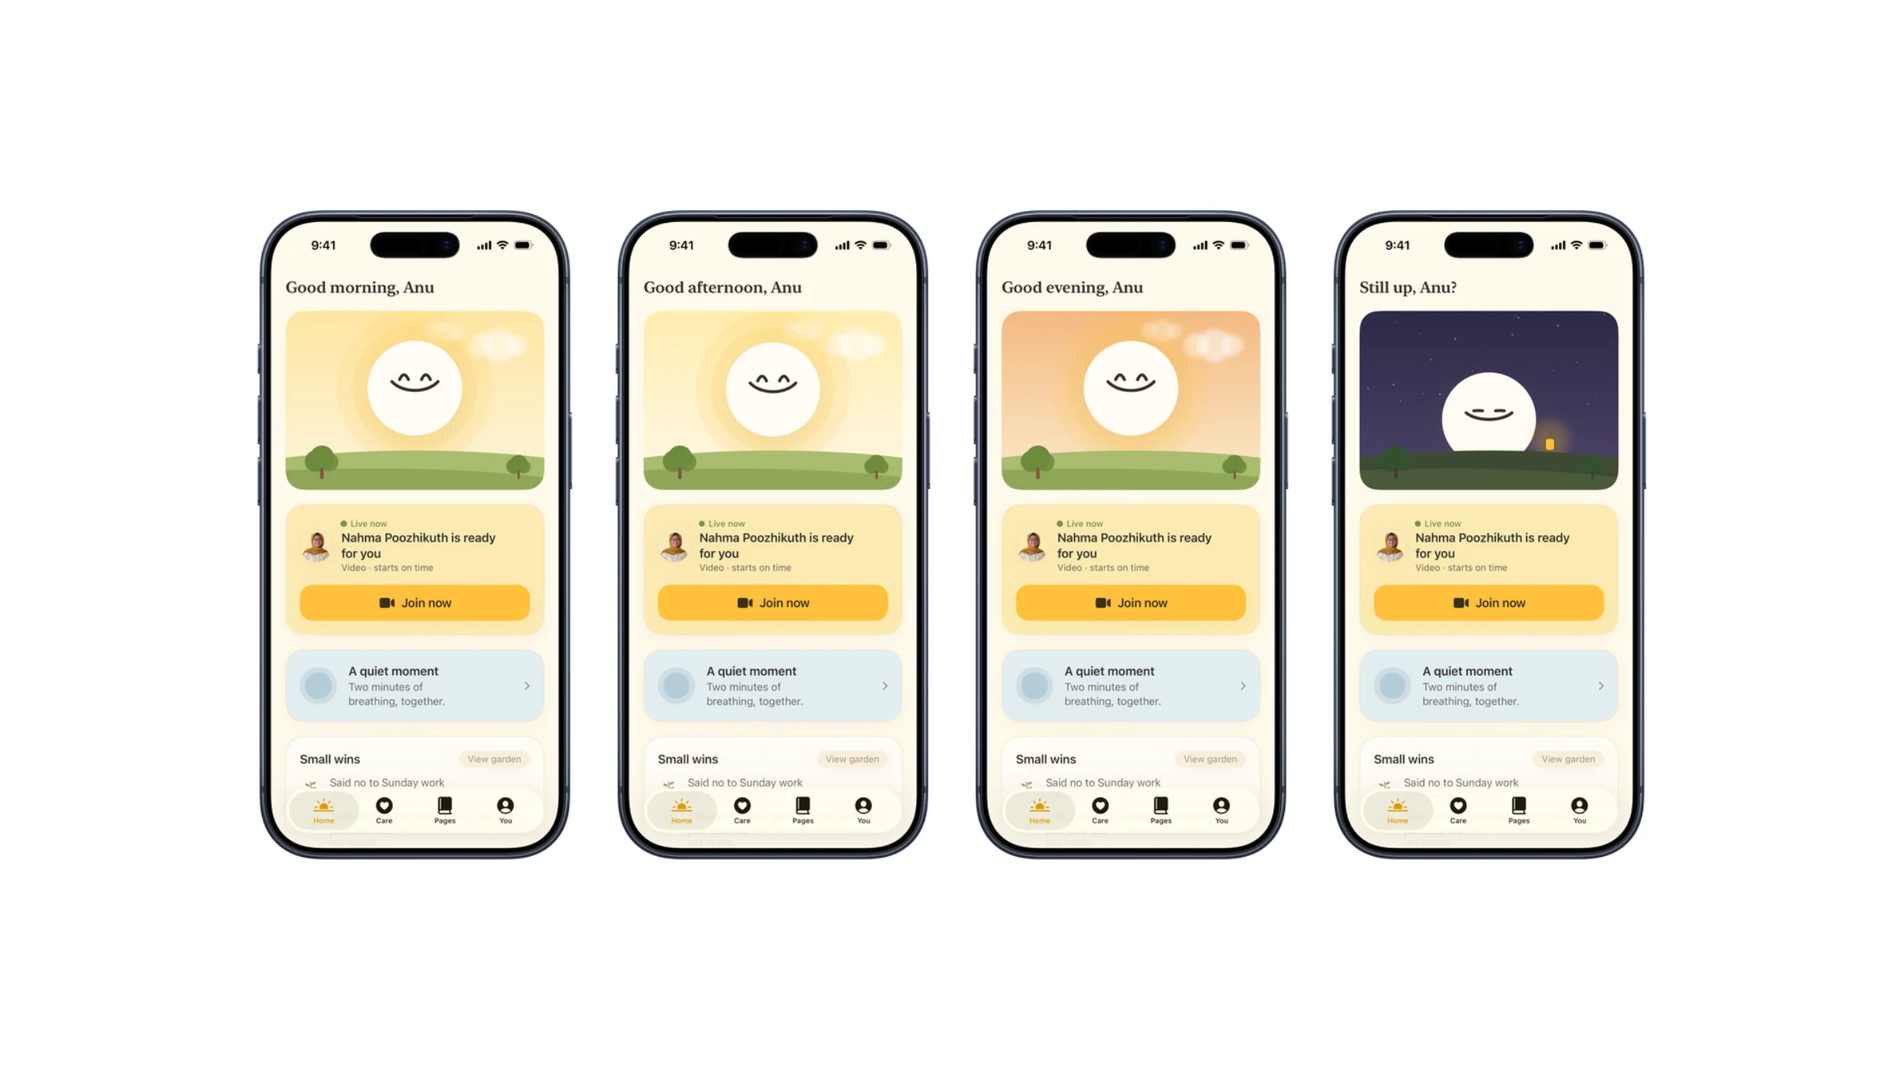
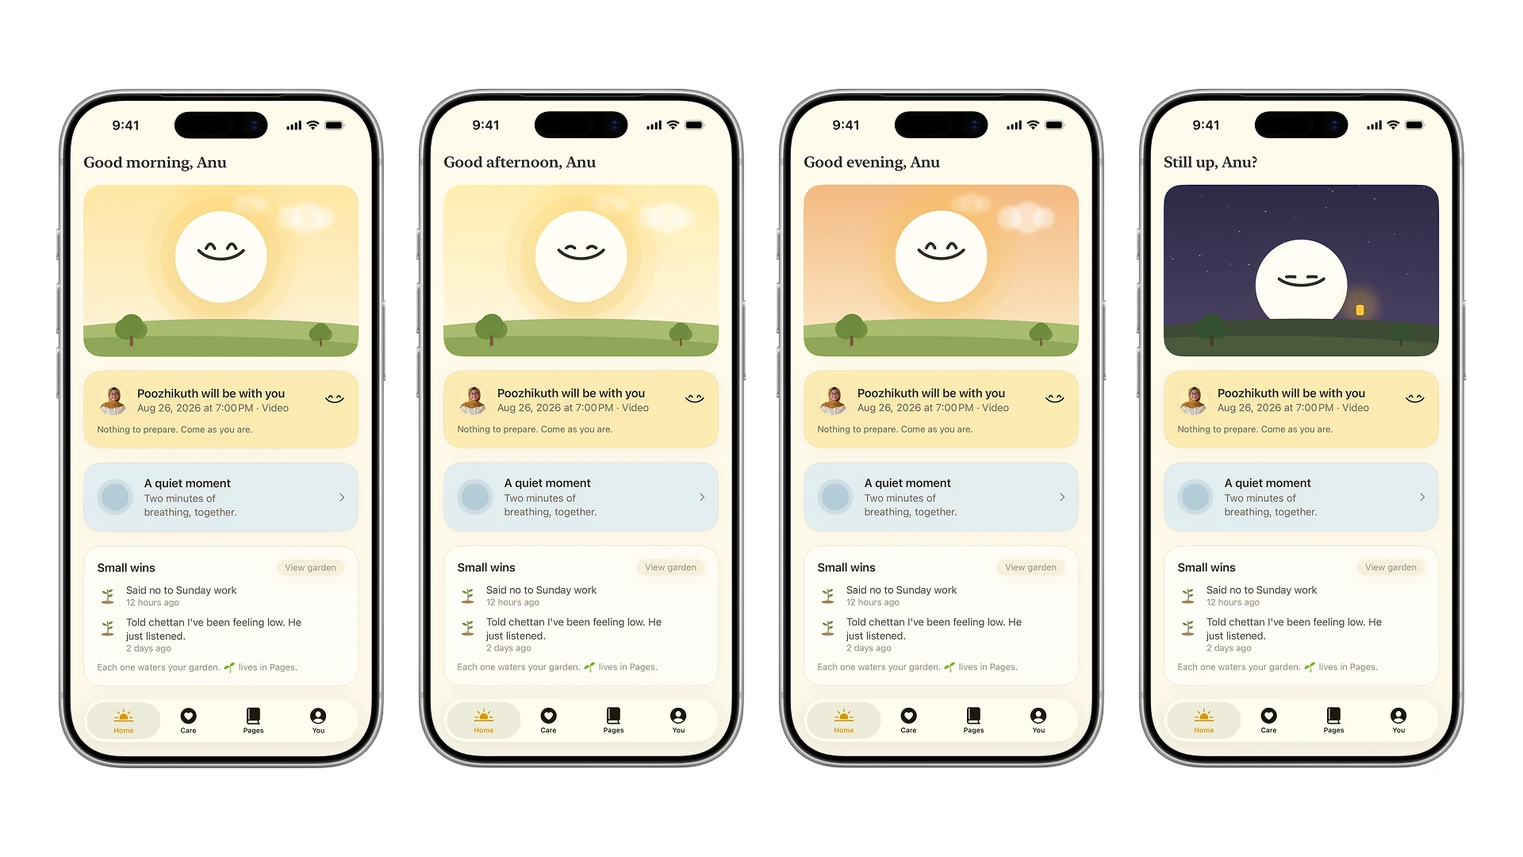
case-studies: Oppam becomes the long one
Moves out of designs, where it was five figures and a paragraph, and
into case studies as the full piece: 2,150 words, 36 figures, fifteen
sections. The design entry is gone and /designs/oppam 301s to the new
home, in _redirects and in render() for in-app history, since that URL
has been shared.

The research is cited rather than asserted. NMHS 2015-16 for the 84.5
percent treatment gap, the same survey for Kerala's 1.2 psychiatrists
per 100,000 against India's 0.75, the live oppam.me site for what the
service offers today, and the published reach of Wysa, Amaha and
YourDOST for the category. The honest limit is stated in the piece
rather than buried: there are no user interviews behind it, and the
people it was designed for are archetypes from that reading.

The strongest new section is the one about the website. Open oppam.me as
a nervous person and you cannot find a price, a therapist, or a first
step. You can find a phone number, which for this particular person is
the tallest step there is. That is the gap the app is built into, and it
is checkable rather than argued.

Then the app itself with reasons attached: no account because a sign-up
wall feels like registering an illness, weather instead of symptoms
because "is my problem big enough" is what keeps people out, three
introductions because a directory asks the hardest question first, a
price on every card, a voice before the money, privacy you can watch
[…]

diff --git a/case-studies/oppam.js b/case-studies/oppam.js
@@ -1,0 +1,153 @@
+// ==========================================================================
+//  Oppam. A case study.
+//
+//  Figures: oppam-assets/*.webp, supplied slides through prep_figures.py.
+//  Individual captures and the capture scripts live in oppam-assets/screens.
+//
+//  Research is cited, not invented: NMHS 2015-16 for the treatment gap and
+//  the Kerala psychiatrist count, the live oppam.me site for what the service
+//  offers today, and the published reach numbers for the category.
+// ==========================================================================
+
+BODY('oppam', {
+  blocks: [
+    { t: 'p', x: 'This is a long one, so here is its shape. Why people in Kerala do not come. What the apps in this category already do, and where they stop. What Oppam has today, which is a website. Then the app I designed for it, screen by screen, and the reasons behind each part of it.' },
+    { t: 'image', src: '/oppam-assets/brand.webp', alt: 'The Oppam wordmark with its smiling mark, beside the app home screen', caption: 'ഒപ്പം. It means beside you.' },
+
+    { t: 'h2', x: 'Kerala, and the walk to the door' },
+    { t: 'p', x: 'Kerala has more psychiatrists per person than any other state in India. About 1.2 for every 100,000 people, where the country as a whole manages 0.75.' },
+    { t: 'p', x: 'The National Mental Health Survey still puts the treatment gap at 84.5 percent. The best served state in the country, and most people who need help are not getting any.' },
+    {
+      t: 'stats',
+      items: [
+        { v: '84.5%', l: 'of people with a mental health condition in India get no treatment (NMHS 2015-16)' },
+        { v: '1.2', l: 'psychiatrists per 100,000 in Kerala, the highest of any state. India averages 0.75' },
+        { v: '0', l: 'accounts this app asks you to create' },
+      ],
+    },
+    { t: 'p', x: 'So the wall is not a shortage of therapists. The wall is the walk to the door.' },
+    { t: 'p', x: 'What stops people here is quieter than a waiting list. Therapy is whispered about. A clinic is a building other people can watch you walk into. Phones get shared with a sibling or a parent. And nobody knows what actually happens in a first session, so the imagination fills it in with something worse than the truth.' },
+    { t: 'p', x: 'I should say plainly what this is built on. <strong>There are no user interviews behind it.</strong> It is the National Mental Health Survey and the Kerala paper drawn from it, published work on shared phones in Indian homes, a read of the live oppam.me service, and a walk through every competing app from first open to booking, marking each place I hesitated and why. The people I kept in mind while deciding are archetypes from that reading, not people I sat with. If there were a budget I would replace them in the first week.' },
+
+    { t: 'h2', x: 'What the apps in this category already do' },
+    { t: 'p', x: 'The category is neither empty nor bad. Wysa has reached eleven million lives across a hundred and five countries. Amaha has served four and a half million users. YourDOST puts counsellors on text, audio and video. These are real products with real reach.' },
+    { t: 'p', x: 'They are also open about their hardest problem, which is that people leave. Retention is the known weak point of the whole category. Language is the other one. An app that only speaks English is asking somebody to describe their worst week in their second language.' },
+    { t: 'p', x: 'But look at where they all begin. They begin at the booking, or at a chatbot. The ten minutes <em>before</em> a person decides to ask for help is nobody&rsquo;s screen.' },
+    { t: 'p', x: 'That is the gap this app is built into.' },
+
+    { t: 'h2', x: 'What Oppam has today' },
+    { t: 'p', x: 'Oppam is Kerala&rsquo;s first 24/7 online counselling platform. Its site counts more than 50,000 therapy hours. It runs individual, couple and follow-up sessions, plus corporate and campus programmes, out of Kozhikode. It names the things people arrive with: anxiety, stress, depression, trauma, grief, anger, work burnout, parenting, queer-affirmative concerns.' },
+    { t: 'p', x: 'The service is real and it works. The website is where it gets hard.' },
+    { t: 'p', x: 'Open that homepage as a nervous person and see what you cannot find. Not the price. Not who the therapists are. Not a first step to booking. What you can find is a phone number.' },
+    { t: 'p', x: 'For this particular person, a phone call is the tallest step in the whole journey. The website asks them to take it first.' },
+
+    { t: 'h2', x: 'What an app can do that a page cannot' },
+    { t: 'p', x: 'An app can be opened without being seen. It can lock a journal behind Face ID, cover itself with a sunrise in the app switcher, and send a notification that gives nothing away. A web page in a browser somebody else borrows can do none of that.' },
+    { t: 'p', x: 'It can also carry a price on every card, introduce a person in their own recorded voice, and let you look at everything without being asked who you are.' },
+    { t: 'p', x: 'So the app is not the website with a tab bar bolted on. It is the part of the service a website cannot hold.' },
+
+    { t: 'h2', x: 'The sentence everything was tested against' },
+    {
+      t: 'quote',
+      x: 'Oppam is not a therapy app. It is the feeling of someone quietly coming to sit beside you, and its real job is the moment before somebody asks for help, not the transaction afterwards.',
+      by: 'The one line every decision had to survive',
+    },
+    { t: 'p', x: 'Four rules came out of that, and between them they settled most of the arguments.' },
+    {
+      t: 'cards',
+      items: [
+        { icon: 'sun', title: 'Trust before identity', desc: 'Nothing is asked before trust is earned. No account, no email. A first name, and even that is optional.' },
+        { icon: 'layers', title: 'One loud action', desc: 'Exactly one thing on a screen may raise its voice. Everything else is an invitation you are free to ignore.' },
+        { icon: 'droplet', title: 'Visible, not promised', desc: 'If you cannot watch a protection working, it is not a feature. Every toggle shows what it actually does.' },
+        { icon: 'moon', title: 'Presence, not performance', desc: 'The companion never gamifies, never guilt-trips, never speaks first, and never pretends to be a therapist.' },
+      ],
+    },
+
+    { t: 'h2', x: 'The first minutes' },
+    { t: 'p', x: 'A sign-up wall feels like registering an illness, so there is not one. The app asks what to call you, and accepts any answer, including none.' },
+    { t: 'image', src: '/oppam-assets/first-minutes.webp', alt: 'The opening screens: the welcome, the what should I call you question, and the language chooser', caption: 'A name, and a language.' },
+    { t: 'p', x: 'The language question is not a settings toggle here, and it is not only about labels. Feelings do not translate well. Malayalam, English or Manglish switches the lines that carry weight, not the chrome.' },
+    { t: 'p', x: 'Then it asks, gently, whether anything is sitting with you lately. Every answer is optional and one of them is <em>nothing right now</em>. It ends on a promise rather than a permission request.' },
+    { t: 'image', src: '/oppam-assets/promise.webp', alt: 'Two onboarding screens: is anything sitting with you lately, and before we begin, one promise', caption: 'Nothing is compulsory, including answering.' },
+
+    { t: 'h2', x: 'Home is a veranda, not a dashboard' },
+    { t: 'p', x: 'A dashboard asks you to manage something. A veranda is a place you can sit without a reason, which is closer to what this app is for.' },
+    { t: 'image', src: '/oppam-assets/home.webp', alt: 'The Oppam home screen with a sky, the companion, a greeting and the next session card', caption: 'Home, in the morning.' },
+    { t: 'p', x: 'The sky and the companion follow the hour, so the app feels like it is in the same day you are. After nine at night the companion sleeps and holds a lantern.' },
+    { t: 'image', src: '/oppam-assets/home-times.webp', alt: 'The same home screen at morning, afternoon, evening and night, the sky and companion changing with each', caption: 'One screen, four times of day.' },
+    { t: 'p', x: 'The check-in asks for weather, not symptoms. <em>Is my problem big enough</em> is one of the questions that keeps people out, and a symptom checklist answers it badly. Weather has no threshold to clear.' },
+    { t: 'p', x: 'Small wins collect underneath, and they only ever grow. Nothing here can go down, because a number that falls is a reason to stop opening an app.' },
+    { t: 'image', src: '/oppam-assets/home-detail.webp', alt: 'The quiet moment card and the small wins list on the home screen', caption: 'A quiet moment, and things that went right.' },
+    { t: 'p', x: 'The quiet moment is a two minute breath on a 4-2-6 count. It is the one thing in the app you can finish.' },
+    { t: 'image', src: '/oppam-assets/breathe.webp', alt: 'The breathing screen with the companion and the words breathe in with me', caption: 'Two minutes, and no account needed.' },
+    { t: 'p', x: 'Most of this part only exists in motion, so this one is the app running rather than a screenshot of it.' },
+    { t: 'image', src: '/oppam-assets/motion-breathe.gif', alt: 'One full breathing cycle animating, captured frame by frame from the simulator', caption: 'One cycle, in and out.' },
+
+    { t: 'h2', x: 'Finding a person' },
+    { t: 'p', x: 'A directory asks the hardest question first: evaluate a screen full of strangers and choose correctly, while anxious. So Care starts from a feeling instead.' },
+    { t: 'image', src: '/oppam-assets/care-feelings.webp', alt: 'The Care screen listing feelings such as anxiety and worry, relationship issues, grief and loss', caption: 'Start with what is going on, not with a list of people.' },
+    { t: 'p', x: 'Then it brings three people forward and says why each of them. Three is a number you can actually decide between. The full list is one tap deeper for anyone who wants it.' },
+    { t: 'image', src: '/oppam-assets/care-matches.webp', alt: 'Three matched therapists with the reason each was suggested, and a therapist profile', caption: 'Introductions, not listings.' },
+    { t: 'p', x: 'Every therapist answers the same question in their own recorded voice: what your first session is honestly like. The unknown first session is the tallest wall in this whole thing, and a voice gets over it in a way a paragraph does not.' },
+    { t: 'image', src: '/oppam-assets/therapist.webp', alt: 'A therapist profile with a voice introduction player, credentials, and tags such as gentle listener and comfort with silence', caption: 'Her voice, before your money.' },
+    { t: 'p', x: 'The price is on the card. Per session, always, no packages. Cost opacity is its own barrier, and the answer to it is a number you can see before you are invested.' },
+    { t: 'image', src: '/oppam-assets/booking-rhythm.webp', alt: 'The booking screens: choosing a rhythm with prices per session, and picking a time', caption: 'A rhythm, a time, a price you already know.' },
+    { t: 'image', src: '/oppam-assets/booking-review.webp', alt: 'The booking review screen and the confirmation', caption: 'Four steps, no forms.' },
+    { t: 'p', x: 'The confirmation ends on the thing people are actually anxious about, which is not the calendar entry.' },
+    { t: 'image', src: '/oppam-assets/booked.webp', alt: 'The you are booked screen reading nothing to prepare, come exactly as you are', caption: '&ldquo;Nothing to prepare. Come exactly as you are.&rdquo;' },
+    { t: 'p', x: 'The room itself says what it does with the session, which is nothing. Video, voice or chat, and camera off is a normal choice rather than a failure.' },
+    { t: 'image', src: '/oppam-assets/live.webp', alt: 'The live session screen with the therapist and an end call button', caption: 'The session.' },
+
+    { t: 'h2', x: 'Pages, which nobody else sees' },
+    { t: 'p', x: 'Writing is the cheapest first step there is, and it does not need a therapist or a payment. Pages is a journal with the prompt turned off by default, because a prompt is a small exam.' },
+    { t: 'image', src: '/oppam-assets/pages.webp', alt: 'The Pages screen with the garden of small wins and the note that these pages are only yours', caption: 'Pages.' },
+    { t: 'p', x: 'Letters can be sealed until a date you pick, which turns writing into something you do for a version of yourself that does not exist yet.' },
+    { t: 'image', src: '/oppam-assets/letters.webp', alt: 'Writing a page, and a letter being sealed for a future date', caption: 'A page, and a letter to later.' },
+
+    { t: 'h2', x: 'Privacy you can watch working' },
+    { t: 'p', x: 'A privacy policy is a promise. A shared phone needs proof. So every protection in here is something you can see doing its job.' },
+    { t: 'image', src: '/oppam-assets/you.webp', alt: 'The You tab with the language of the heart switcher and the privacy room', caption: 'The You tab is deliberately small.' },
+    { t: 'p', x: 'Face ID on the journal door. A sunrise that covers the app in the switcher. Notifications that show you the exact text somebody else would see on your lock screen. One tap turns Pages into a grocery list.' },
+    { t: 'image', src: '/oppam-assets/privacy.webp', alt: 'The privacy room with a lock on the journal, neutral notifications with a live preview, and quiet hours', caption: 'Each one shows what it actually does.' },
+
+    { t: 'h2', x: 'The companion' },
+    { t: 'p', x: 'The mark in the logo is a smile, and the companion is that smile alive. It is drawn as animated geometry rather than an image, so it can breathe, blink, and sit one register softer than whatever you are feeling.' },
+    { t: 'p', x: 'It never mirrors distress and never celebrates louder than you do. It never speaks first. When it does speak, the words are set in a serif, like a letter rather than a chat bubble.' },
+    { t: 'image', src: '/oppam-assets/moods.webp', alt: 'The five companion registers: peaceful, listening, happy, comforting and sleeping', caption: 'Five registers, one face.' },
+
+    { t: 'h2', x: 'The other half, which is the therapist' },
+    { t: 'p', x: 'A marketplace that designs only the buyer&rsquo;s side quietly decides that the supply side does not matter. Therapists are the supply here, and burnt out therapists are how a service like this fails. So the console is built too.' },
+    { t: 'image', src: '/oppam-assets/console-today.webp', alt: 'The therapist console today screen with the live session and the client who has arrived', caption: 'Today, for the therapist.' },
+    { t: 'p', x: 'People rather than cases. A file shows a first name and only what that person chose to share, including the words they typed on day one.' },
+    { t: 'image', src: '/oppam-assets/console-week.webp', alt: 'The console today, people and calendar screens', caption: 'The week, and the people in it.' },
+    { t: 'p', x: 'Hours are opened by the therapist, not assigned to them. Earnings show the split written out rather than a net figure that needs trusting.' },
+    { t: 'image', src: '/oppam-assets/console-practice.webp', alt: 'The practice screen with earnings and the hours the therapist has opened', caption: 'The practice.' },
+    { t: 'p', x: 'Notes are written the way you would say it to a colleague you trust, and an unfinished note is not a backlog with a badge on it.' },
+    { t: 'image', src: '/oppam-assets/console-notes.webp', alt: 'Session notes and the unfinished notes list', caption: 'Notes.' },
+    { t: 'image', src: '/oppam-assets/console-earnings.webp', alt: 'The earnings screen with the split written out and the payout history', caption: 'Earnings, with the split shown.' },
+    { t: 'p', x: 'And the part nobody puts in a marketplace: an on-call clinical lead, peer supervision, and an escalation protocol that says what to do when somebody is not safe.' },
+    { t: 'image', src: '/oppam-assets/console-support.webp', alt: 'The support screen with an on-call clinical lead, peer supervision and the escalation protocol', caption: 'Nobody holds this alone.' },
+
+    { t: 'h2', x: 'The bad days are designed too' },
+    { t: 'p', x: 'Anything that only works when the network does is a prototype. These are the screens the app spends its worst minutes on.' },
+    { t: 'image', src: '/oppam-assets/offline.webp', alt: 'The offline ribbon sliding in under the status bar with an explanation screen', caption: 'Offline says so, quietly.' },
+    { t: 'image', src: '/oppam-assets/errors.webp', alt: 'Three error states: cannot load right now, the payment did not go through, the connection dropped', caption: 'Reassurance first, one calm retry second.' },
+    { t: 'p', x: 'An empty screen is never a dead end. The companion waits in the blank space with a line and a way forward.' },
+    { t: 'image', src: '/oppam-assets/empty-booked.webp', alt: 'The nothing booked yet empty state with a find someone button', caption: 'Empty, with a way out of it.' },
+    { t: 'image', src: '/oppam-assets/offline-states.webp', alt: 'More states: offline, no sessions yet, and cannot reach the call', caption: 'And the rest of them.' },
+    { t: 'image', src: '/oppam-assets/sideways.webp', alt: 'The something went sideways error screen', caption: 'Even this one is written like a person.' },
+
+    { t: 'h2', x: 'Lamplight' },
+    { t: 'p', x: 'Dark mode here is not a grey inversion. It is lamplight: warm browns and amber, because this app gets opened late at night by people who are not having a good one, and cold grey at 2 AM is a worse room to sit in.' },
+    { t: 'image', src: '/oppam-assets/dark-home.webp', alt: 'The home screen in dark mode with a warm night sky', caption: 'The night veranda.' },
+    { t: 'image', src: '/oppam-assets/dark-care.webp', alt: 'Home, Care and a therapist profile in dark mode', caption: 'Care, after dark.' },
+    { t: 'image', src: '/oppam-assets/dark-pages.webp', alt: 'Pages, You and the privacy room in dark mode', caption: 'Pages and the privacy room.' },
+    { t: 'image', src: '/oppam-assets/dark-breathe.webp', alt: 'The breathing screen and the morning home screen in dark mode', caption: 'A design system is only real once the quiet screens hold.' },
+
+    { t: 'h2', x: 'What this is, and what it is not' },
+    { t: 'p', x: 'It is a running SwiftUI app on iOS 18, with the data on the device and nothing in a cloud. Every figure above is a capture of it, taken by launch argument so the same screen comes back the same way each time.' },
+    { t: 'image', src: '/oppam-assets/in-hand.webp', alt: 'The Oppam app running on a phone held in one hand', caption: 'On a real phone.' },
+    { t: 'p', x: 'What it is not is validated. The archetypes are mine, the priorities are mine, and no part of this has met a person who came looking for help. That is the honest limit of a self-initiated project, and it is the first thing I would fix.' },
+    { t: 'p', x: 'Deliberately left for later: the home screen widget, a live activity for the session countdown, Apple sign in, and a night companion that knows how badly you slept. The first of those is a weekend. The last one needs a conversation about health data that this prototype has not earned yet.' },
+  ],
+});

diff --git a/data.js b/data.js
@@ -186,6 +186,18 @@ const CLIENTS = [
 // ============================================================================
 const CASE_STUDIES = [
   {
+    slug: 'oppam',
+    thumbUrl: '/oppam-assets/thumb.webp',
+    name: 'Oppam: Designing the Minutes Before Someone Asks for Help',
+    category: 'Mobile App',
+    icon: 'sun',
+    tag: 'Case study',
+    status: 'Prototype',
+    summary: 'Kerala has the most psychiatrists per person in India and still leaves most people untreated, so the wall is not supply. A running iOS app for a real Kozhikode counselling service, built around the ten minutes before a booking, with the therapist\'s side designed too.',
+    lede: 'Oppam is a real counselling service in Kozhikode, and today it is a website and a phone number. Kerala has more psychiatrists per person than any state in India and still leaves most people untreated, so the wall is not supply. It is the walk to the door. This is the app built for that walk.',
+    body: '/case-studies/oppam.js',
+  },
+  {
     slug: 'nisf',
     thumbUrl: '/nisf-assets/thumb.webp',
     name: 'Nisf: A Matrimonial App, Redesigned',
@@ -355,19 +367,6 @@ const DESIGNS = [
     lede: 'Parcel tracking for a shop and its customers. Paste a tracking number from any of 14 carriers and get one timeline back, even when the parcel changed hands halfway.',
     tech: ['React 18', 'TypeScript', 'Razorpay Blade v12 (109 components)', 'styled-components', 'React Router', 'Framer Motion', 'Recharts', 'Vite', 'Seeded mock data · no backend'],
     body: '/designs/trackwise.js',
-  },
-  {
-    slug: 'oppam',
-    thumbUrl: '/oppam-assets/thumb.webp',
-    name: 'Oppam: A Companion, Not an App',
-    category: 'Mobile App',
-    icon: 'sun',
-    tag: 'Design',
-    status: 'Prototype',
-    summary: 'Kerala has India\'s best therapist coverage and still leaves most people untreated - so the problem is the walk to the door, not the waiting list. A concept redesign that builds both sides of the marketplace, shipped as a running SwiftUI app.',
-    lede: 'A therapy app for Kerala, designed around the minutes before somebody books, the part that usually decides whether they book at all. Both sides are built: the person looking for help, and the therapist taking the sessions.',
-    tech: ['SwiftUI', 'iOS 18', 'SwiftData (on-device only)', 'Observation', 'WidgetKit', 'Custom character system', 'Face ID', 'Two-sided · seeker + therapist', 'Mock data · no cloud'],
-    body: '/designs/oppam.js',
   },
   {
     slug: 'netti',

diff --git a/script.js b/script.js
@@ -2630,6 +2630,13 @@
 
     // /exploring is gone — its toolkit is the Tools row on /about. Netlify
     // 301s a real request; this catches in-app history the same way.
+    // Oppam moved from a design entry to a case study. Netlify 301s a real
+    // request; this catches in-app history the same way the renames above do.
+    if (path === 'designs/oppam') {
+      path = 'case-studies/oppam';
+      history.replaceState(null, '', href(path));
+    }
+
     if (path === 'exploring') {
       path = 'about';
       history.replaceState(null, '', href(path));
